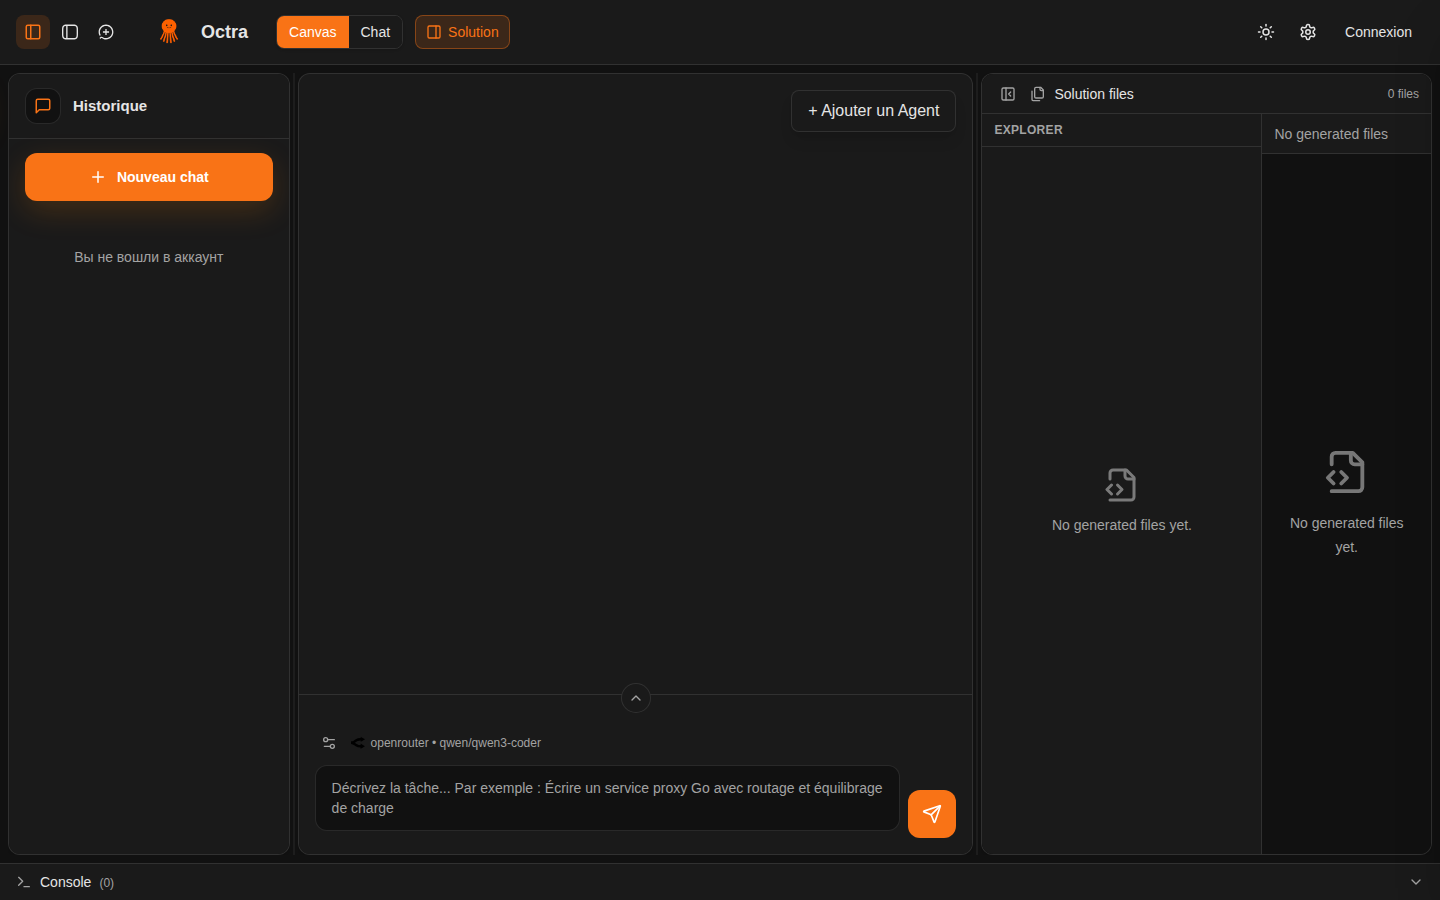
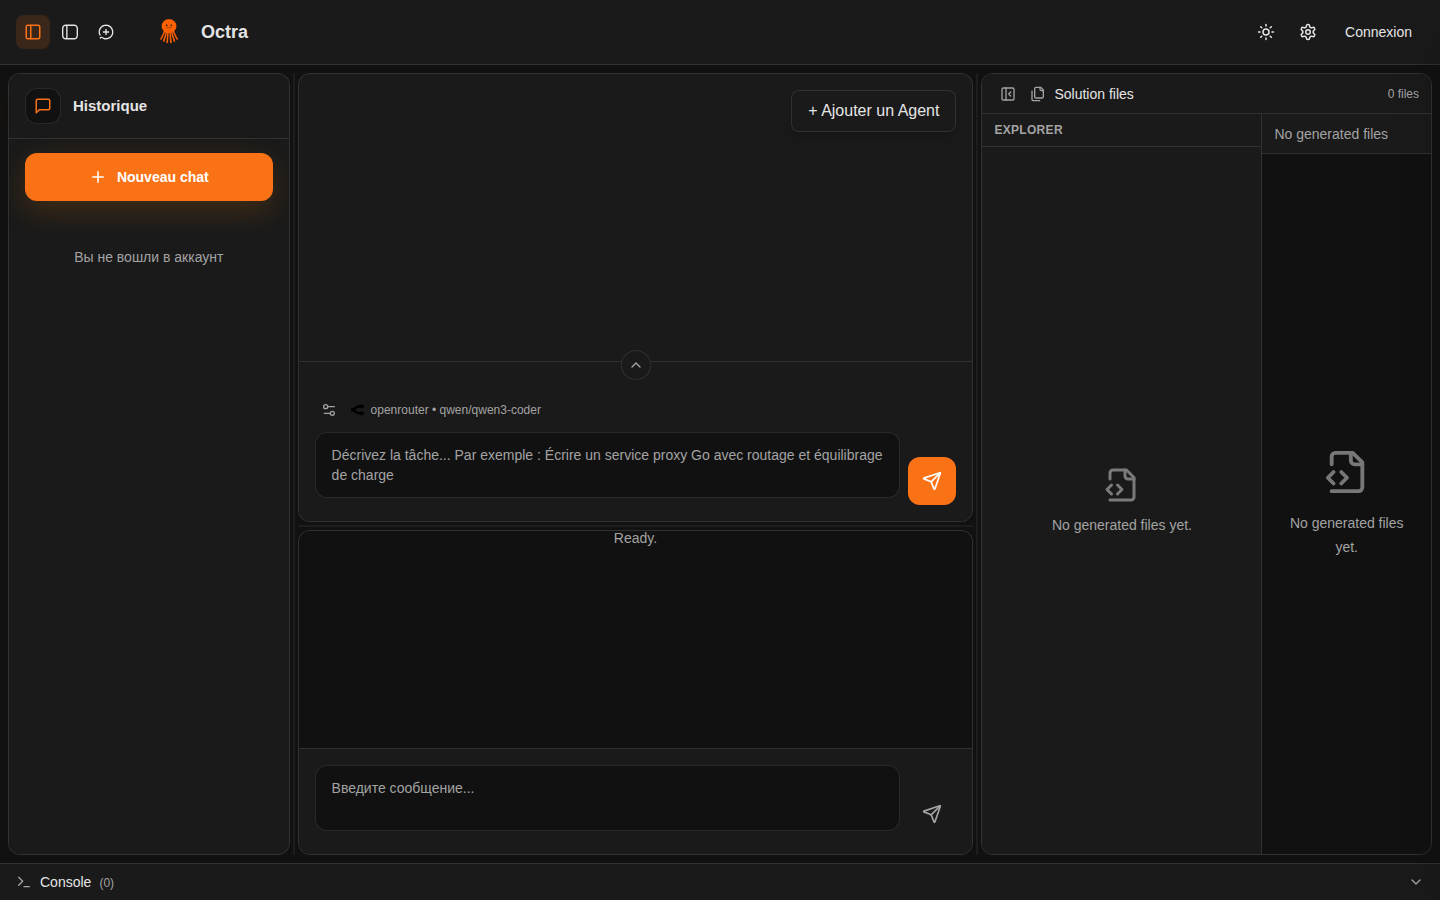
Fix desktop workspace runtime crash and sync the layout test
The previous workspace restructure (Solution always docked, Canvas
stacked over the Octra Boss chat) left two stale props passed to
<Workspace> in App.tsx: mode and solutionOpen. solutionOpen was also
deleted as a state variable, so the desktop layout threw
'ReferenceError: solutionOpen is not defined' at runtime — vite build
only transpiles, so it passed CI while the page rendered blank.

- App.tsx: drop the removed mode / solutionOpen props from <Workspace>.
- check-workspace-layout.mjs: assert the implemented design (collapsible
  Sessions dock, Canvas-over-chat centre, permanently docked Solution)
  instead of the old per-dock toggles, fixing the failing test.
- Refresh the desktop/mobile screenshots to match the rendered layout.

diff --git a/frontend/web/src/app/App.tsx b/frontend/web/src/app/App.tsx
@@ -541,7 +541,6 @@ export default function App() {
       <ReactFlowProvider>
         {isDesktop ? (
           <Workspace
-            mode={mode}
             onModeChange={setMode}
             hasUnreadMessages={hasUnreadMessages}
             chatMessages={chatMessages}
@@ -555,7 +554,6 @@ export default function App() {
             onSelectChat={handleSelectChat}
             onNewChat={handleNewChat}
             sessionsOpen={sessionsOpen}
-            solutionOpen={solutionOpen}
           />
         ) : (
           <>
